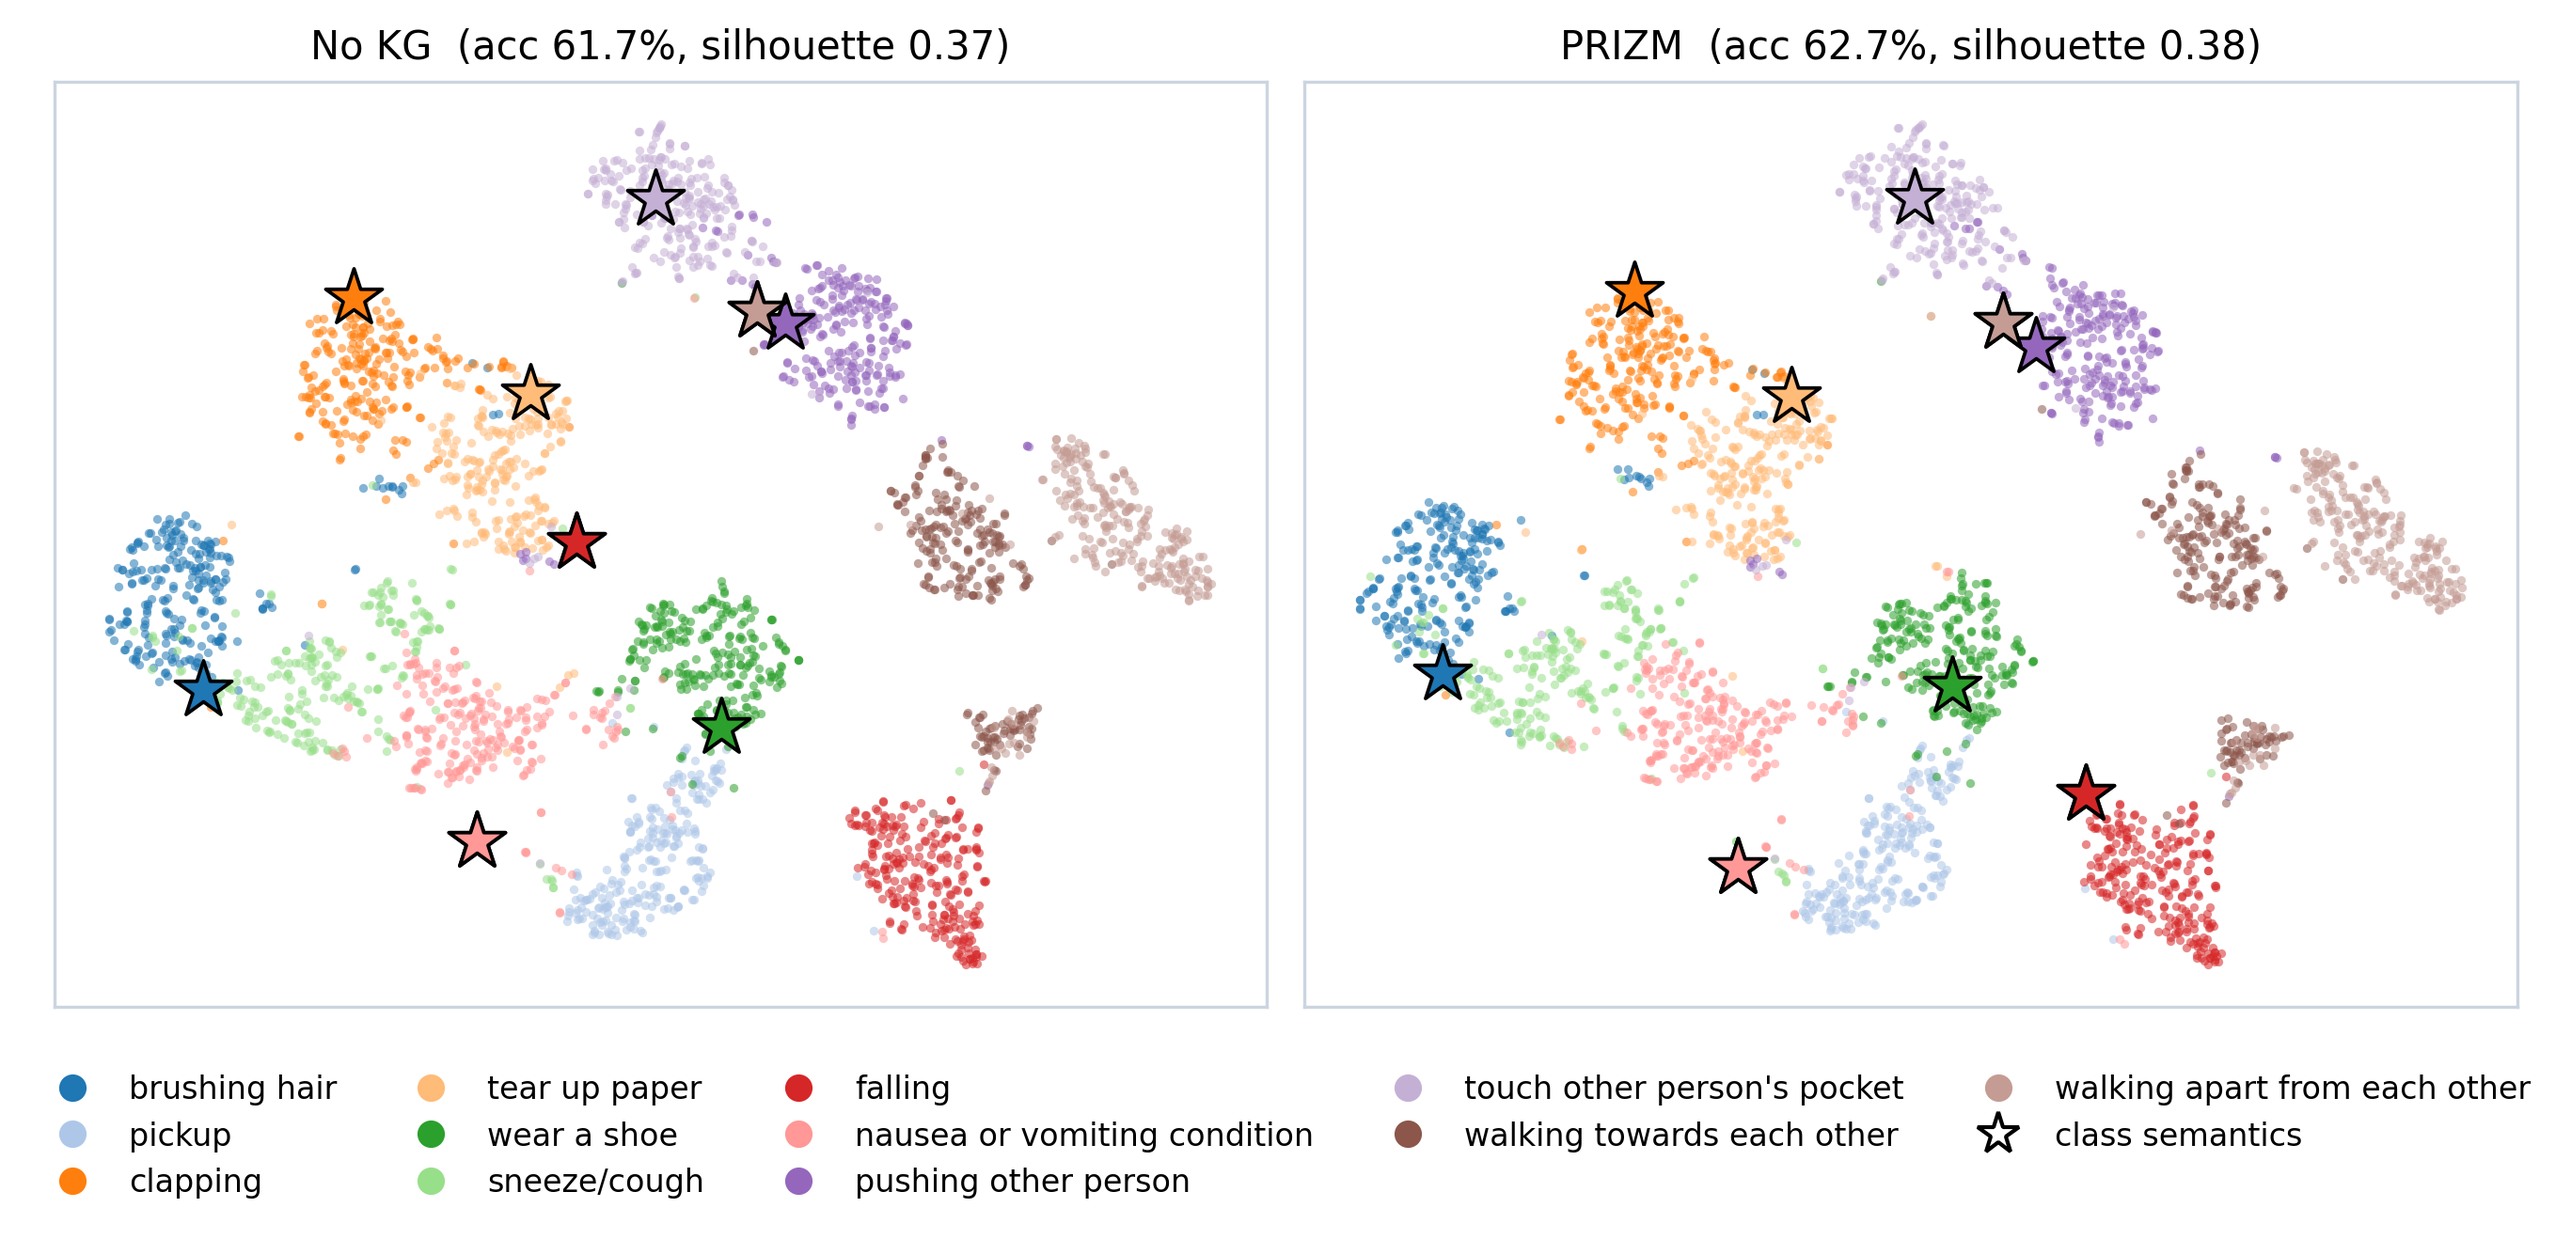
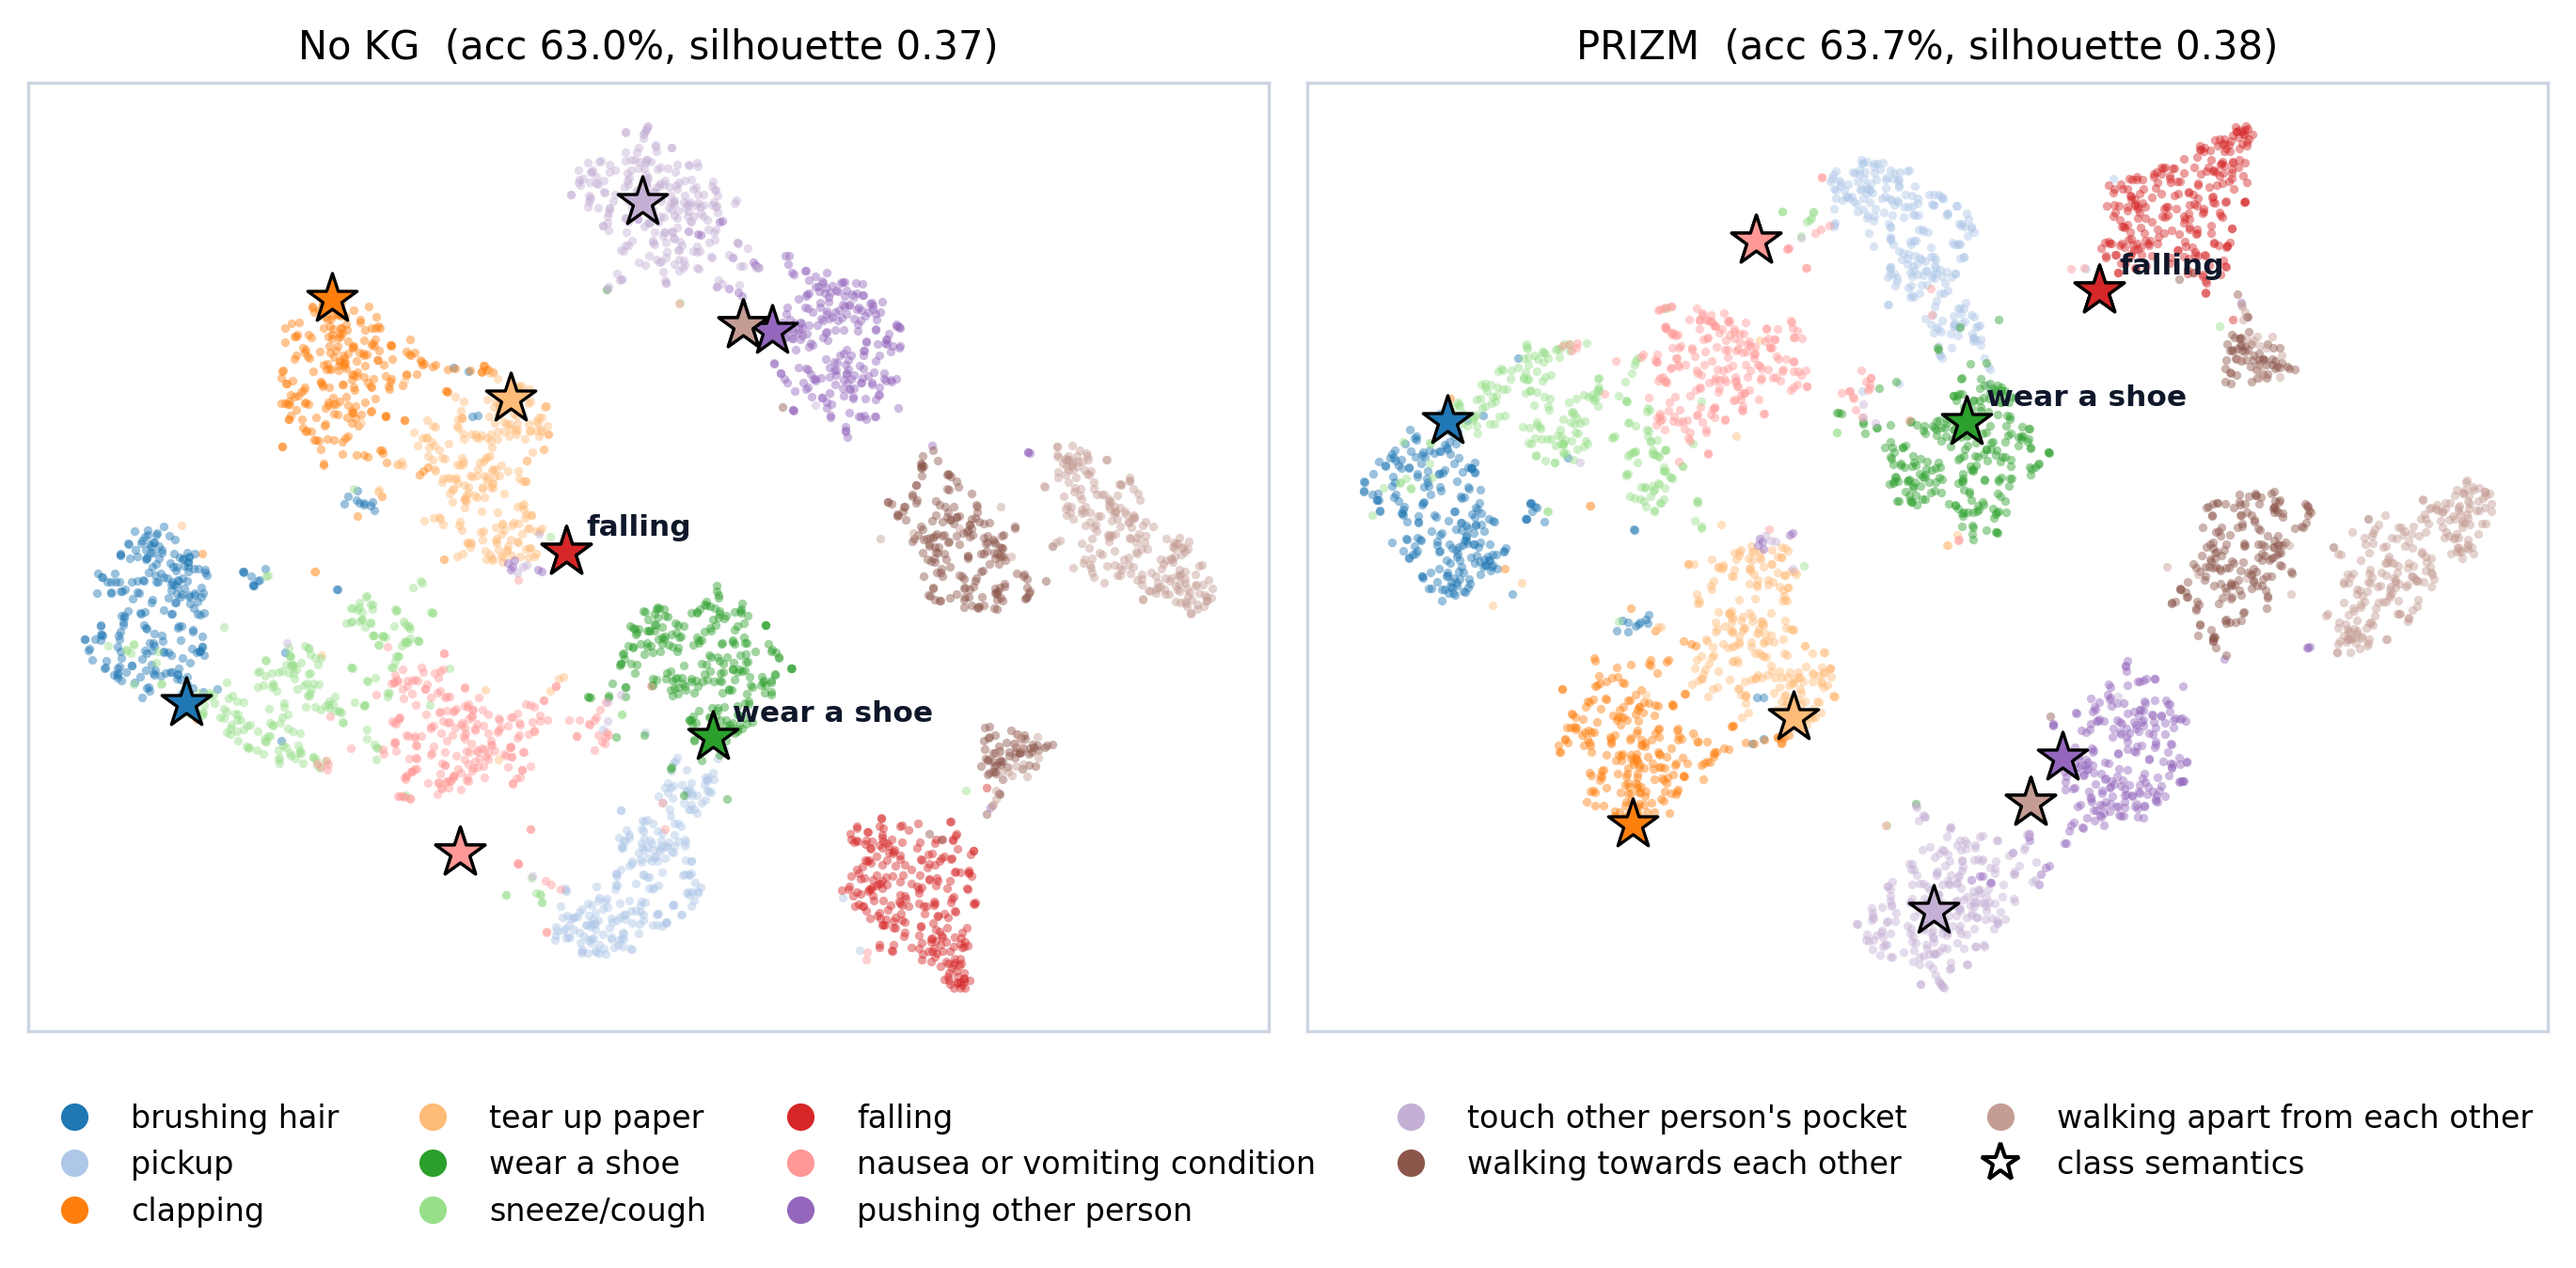
up

diff --git a/zeroshot/Flora/plot_tsne.py b/zeroshot/Flora/plot_tsne.py
@@ -110,6 +110,16 @@ def embed(lat, max_per_class, seed=0):
     return e[:len(z)], y, e[len(z):], sil
 
 
+def align_2d(ref_e, ref_y, e, y, ea, nc):
+    """Orthogonal Procrustes alignment on class centroids (preserves all pairwise t-SNE distances)."""
+    c_ref = np.array([ref_e[ref_y == k].mean(0) for k in range(nc)])
+    c_cur = np.array([e[y == k].mean(0) for k in range(nc)])
+    m_ref, m_cur = c_ref.mean(0), c_cur.mean(0)
+    u, _, vt = np.linalg.svd((c_cur - m_cur).T @ (c_ref - m_ref))
+    r = u @ vt
+    return (e - m_cur) @ r + m_ref, (ea - m_cur) @ r + m_ref
+
+
 def main():
     default_out = os.path.join(C.DRIVE_OUT, 'figures') if os.path.isdir(os.path.dirname(C.DRIVE_OUT)) \
         else os.path.join(HERE, 'output', 'figures')
@@ -143,9 +153,21 @@ def main():
     colors = [cmap(k % cmap.N) for k in range(nc)]
 
     plt.rcParams.update({'font.size': 9, 'axes.titlesize': 10})
+    emb = {m: embed(lat[m], opts.max_per_class) for m in ('none', 'prizm')}
+    e_no, y_no, ea_no, sil_no = emb['none']
+    e_pr, y_pr, ea_pr, sil_pr = emb['prizm']
+    e_pr, ea_pr = align_2d(e_no, y_no, e_pr, y_pr, ea_pr, nc)
+    panels = [('none', 'No KG', e_no, y_no, ea_no, sil_no),
+              ('prizm', 'PRIZM', e_pr, y_pr, ea_pr, sil_pr)]
+
+    all_xy = np.concatenate([e_no, ea_no, e_pr, ea_pr])
+    pad_x = 0.06 * (all_xy[:, 0].max() - all_xy[:, 0].min())
+    pad_y = 0.06 * (all_xy[:, 1].max() - all_xy[:, 1].min())
+    xlim = (all_xy[:, 0].min() - pad_x, all_xy[:, 0].max() + pad_x)
+    ylim = (all_xy[:, 1].min() - pad_y, all_xy[:, 1].max() + pad_y)
+
     fig, axes = plt.subplots(1, 2, figsize=(9.2, 4.4))
-    for ax, (m, title) in zip(axes, (('none', 'No KG'), ('prizm', 'PRIZM'))):
-        e, y, ea, sil = embed(lat[m], opts.max_per_class)
+    for ax, (m, title, e, y, ea, sil) in zip(axes, panels):
         for k in range(nc):
             p = e[y == k]
             ax.scatter(p[:, 0], p[:, 1], s=5, color=colors[k], alpha=0.45, linewidths=0)
@@ -157,6 +179,7 @@ def main():
                 ax.annotate(names[k], (ea[k, 0], ea[k, 1]), xytext=(5, 4),
                             textcoords='offset points', fontsize=7.5, fontweight='bold',
                             color='#0f172a', zorder=20)
+        ax.set_xlim(xlim); ax.set_ylim(ylim)
         ax.set_title(f'{title}  (acc {float(lat[m]["acc"]):.1f}%, silhouette {sil:.2f})')
         ax.set_xticks([]); ax.set_yticks([])
         for s in ax.spines.values():
